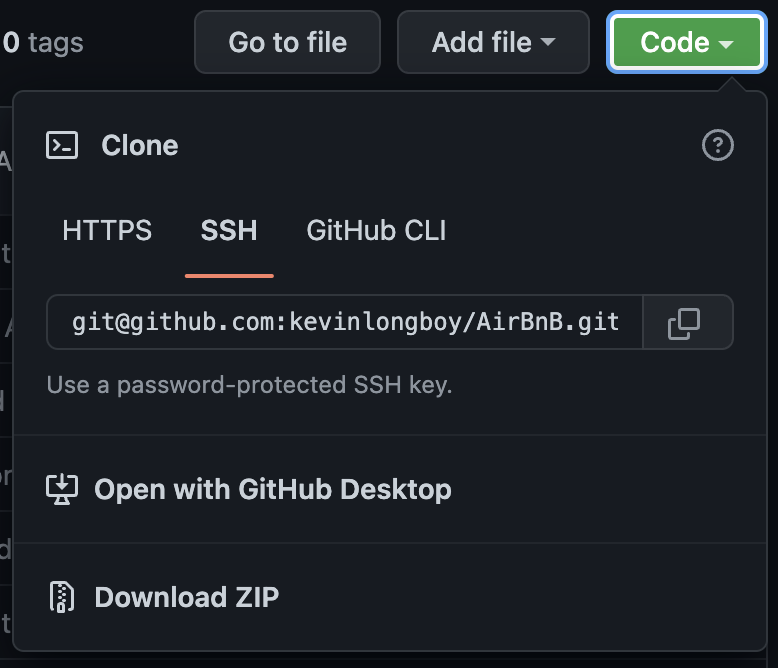
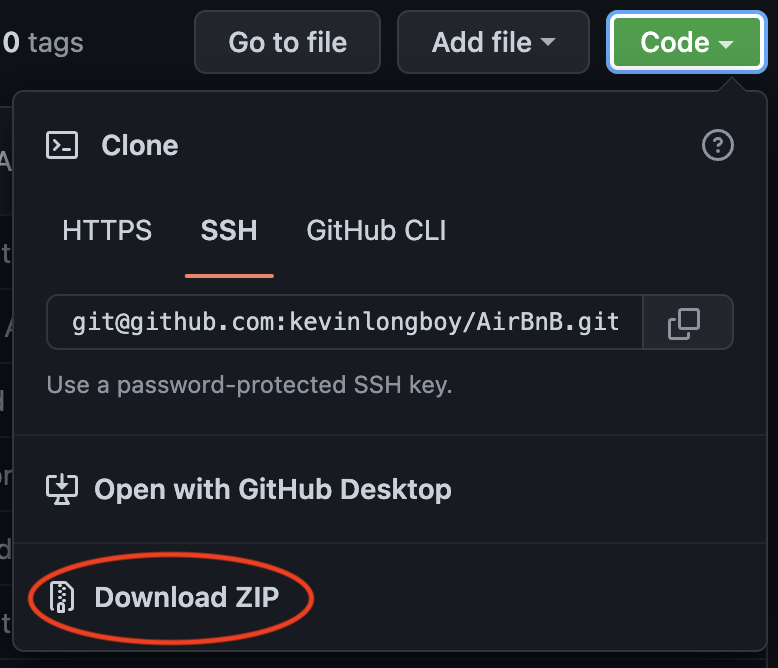
Added to root README.

diff --git a/README.md b/README.md
@@ -57,7 +57,7 @@ Ready to try CraneBnB? Follow the instructions below:
    <br>
 2. Click on the 'Code' button:
    <br>
-   <img src="assets/instructions/github-repository-page.png" alt="CraneBnB repository page" width="250"/>
+   <img src="assets/instructions/github-repository-page.png" alt="CraneBnB repository page" width="500"/>
    <br>
 3. Select 'Download ZIP' from the dropdown menu:
    <br>
